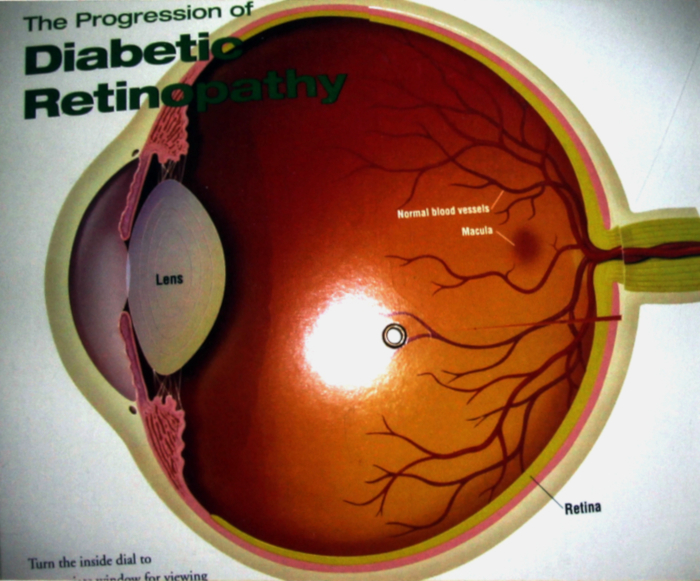
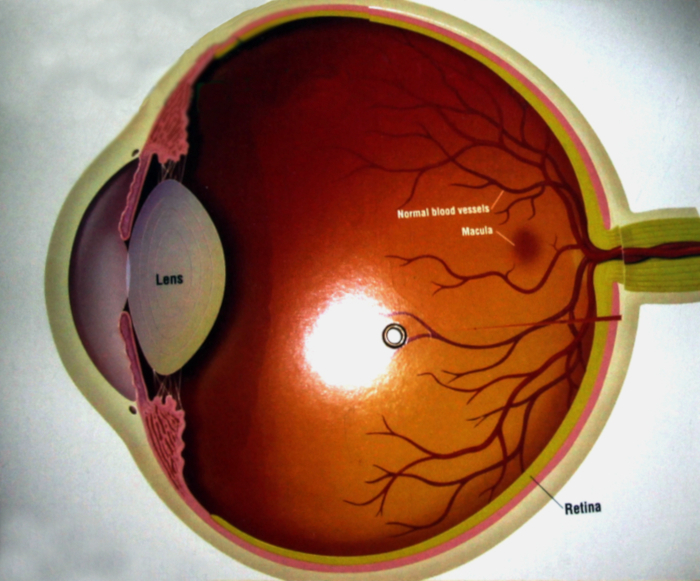
diabetes book full book formating completed

Changed region(s): [[0.0, 0.0, 0.51, 0.2169], [0.0, 0.8675, 0.3, 1.0]]

diff --git a/TeX/040/src/000g-preface.tex b/TeX/040/src/000g-preface.tex
@@ -13,13 +13,13 @@ Diabetes is a consequence of our own making. We have deviated from the lifestyle
 
 Diabetes is a disease that spares no organ in the body. Diabetics are three times more likely to have high blood pressure, 4 times more likely to die from a heart attack, and 4 times more likely to have a stroke. Diabetes is particularly hard on the Indian kidneys causing\break kidney failure at a 10–40 times higher rate than Caucasians. On a more sensitive note, diabetic men are 3 times more likely to develop erectile dysfunction, and they do so 10 years earlier than non-diabetics.
 
-Today, diabetes is no longer a disease of just the rich and old. Type 2 diabetes, which is usually diagnosed at the age of 40–50 years, is\break now being reported in kids as young as 9! In fact, Indian kids have an\break 11-fold higher risk of developing diabetes than Caucasian children.\break Youth account for 70\% of India's population. Our future is crippled if status quo prevails.
+Today, diabetes is no longer a disease of just the rich and old. Type 2 diabetes, which is usually diagnosed at the age of 40–50 years, is\break now being reported in kids as young as 9! In fact, Indian kids have an\break 11-fold higher risk of developing diabetes than Caucasian children.\break Youth account for 70\% of India's population. Our future is crippled if the status quo prevails.
 
 Diabetes is not a disease limited by a country's borders, and has\break followed Indians to every part of the globe. Indians are the fastest growing minority in the USA, and are the second largest ethnic group in Britain after Caucasians. They have double the rate of diabetes\break compared to Whites.
 
 Thus, whether we like it or not, diabetes is at everyone's doorstep today. Look around you, and you will see a friend, family member, neighbor or co-worker suffering from diabetes.
 
-Unfortunately, this major public crisis is not getting the attention it warrants. In our effort to fight this epidemic, we have meticulously combed through the entire scientific literature to identify research work that specifically addresses diabetes and its related problems\break affecting the Indian population. We have drawn on the 20 minus years of professional experience in treating patients with diabetes, the\break diabetes research experience gained at the All India Institute of\break Medical Sciences, New Delhi, and research conducted at the Sreehari Diabetes and Research Center, Mysuru, and the diabetes education\break acquired at the University of Newcastle, Australia, in authoring this book. The contents of this book is spread over 28 chapters, divided into 3 sections: (the fundamentals of diabetes, the 10 major complications of diabetes, and the solutions to the diabetes menace.
+Unfortunately, this major public crisis is not getting the attention it warrants. In our effort to fight this epidemic, we have meticulously combed through the entire scientific literature to identify research work that specifically addresses diabetes and its related problems\break affecting the Indian population. We have drawn on the 20 years of professional experience in treating patients with diabetes, the\break diabetes research experience gained at the All India Institute of\break Medical Sciences, New Delhi, and research conducted at the Sreehari Diabetes and Research Center, Mysuru, and the diabetes education\break acquired at the University of Newcastle, Australia, in authoring this book. The contents of this book is spread over 28 chapters, divided into 3 parts: (The fundamentals of diabetes, the 10 major complications of diabetes, and The solutions to the problems.
 
 We have highlighted simple, but very effective measures to\break counter diabetes. For example, eating a diet that contains complex\break carbohydrates (whole grains, vegetables, and fruits) instead of simple sugars (Coke, Pepsi, sweets, maida, white rice, etc) causes less stress on the pancreas. Consuming plant-based protein (dals, peas, nuts, seeds, etc) leads to less hunger, and consequently, better blood sugar\break control. Healthy fats (mono and poly unsaturated fats) in moderation are both essential and beneficial for health. On the contrary, the\break so-called "fat free" foods are likely to lead to poor diabetes control. The spices we routinely use in our kitchen (lndian spices - jeera, methi,\break sarson, kali mirch, etc) tend to lower our blood sugar and cholesterol levels. A healthy diet, combined with regular physical activity can\break reduce the risk of diabetes by 71\%. For every kilogram of excess weight that you burn, the risk of diabetes falls by 16\%. Yoga reduces blood sugar levels within hours, and leads to sustained benefit. This book is packed with many such facts and figures, which will bring diabetes prevention and control within the grasp of every reader.
 
@@ -29,3 +29,8 @@ It is our sincere hope and prayer that this book serves uncover this silently bu
 \textbf{Dr. V. Lakshminarayan \& Dr. Sooraj Tejaswi}
 \end{flushright}
 
+
+\newpage
+~\phantom{a}
+\thispagestyle{empty}
+\newpage

diff --git a/TeX/040/src/000d-foreword.tex b/TeX/040/src/000d-foreword.tex
@@ -13,9 +13,9 @@
 \textbf{Padmasri Dr. V. MOHAN,} {\small M.D., FRCP (London, Edinburgh,\\ Glasgow, Ireland), Ph.D., D.Sc., D.Sc (Hon. Causa), FNASc, FASc,\\ FNA, FACP, FACE\\\textbf{President, Research Society for Study of Diabetes in India\\ (RSSDI)\\ Chairman \& Chief of Diabetology, Dr. Mohan’s Diabetes\\ Specialities Centre,\\ Director \& Chief of Diabetes Research, Madras Diabetes\\ Research Foundation,\\ Chennai}}
 \end{figure}
 
-It gives me great pleasure to write this ‘Foreword’ for the book\break “World's Invisible Enemy Diabetes” by Dr. V. Lakshminara\-yan and his son Dr. Sooraj Tejaswi. I have known Dr. Lakshminarayan for many years and admire him for his deep knowledge of medicine in general, and diabetes, in particular. He is a good speaker, a talented writer, an excellent clinician and above all a great human being. I have always been struck by his humi\-lity, his passion for excellence and his deep sense of humility. It is therefore a great pleasure for me to write a Foreword to his book.
+It gives me great pleasure to write this ‘Foreword’ for the book\break “World's Invisible Enemy: Diabetes” by Dr. V. Lakshminara\-yan and his son Dr. Sooraj Tejaswi. I have known Dr. Lakshminarayan for many years and admire him for his deep knowledge of medicine in general, and diabetes, in particular. He is a good speaker, a talented writer, an excellent clinician and above all a great human being. I have always been struck by his humi\-lity, his passion for excellence and his deep sense of humility. It is therefore a great pleasure for me to write a Foreword to his book.
 
-Today, diabetes has become a global epidemic and India has\break the second largest number of people with diabetes in the world, 72.9 million, according to the recent ICMR–INDIAB study results published in 2011. Moreover, it has also an even larger number of people with pre–diabetes (77.4 million). Diabetes is no longer a disease of the rich, the old or urban people. The epidemic is rapidly shifting to younger ages, to rural areas and to the poor. This places a huge burden on not only the individual, family and the society but also the nation, as a whole. A century ago, there was an adage, “Know syphilis and know medicine”. Today, this could be changed to ‘Know diabetes and know medicine’ because diabetes has its ramifications all over the body and produces numerous complications. Moreover it is known as ‘a good di\-sease with bad companions’ because several co–morbidities like\break hypertension, dyslipidemia, obesity, cardiovascular disease and stroke, non-alcoholic fatty liver diseases and even some forms of cancers are associated with diabetes. Therefore the title of Dr. Lakshminarayan’s book “World's Invisible Enemy Diabetes” is appropriate. A thorough understanding of diabetes, its early detection, prevention and control can help not only individuals with diabetes, but also those with associated diseases and compli\-cations. This book covers all aspects of diabetes starting with history of diabetes, the acute and chronic complications of diabetes and various aspects of treatment of the disorder. I congra\-tulate Dr. Lakshminarayan and Dr. Tejaswi on this exce\-llent publication and wish them all the very best with its publication.
+Today, diabetes has become a global epidemic and India has\break the second largest number of people with diabetes in the world, 72.9 million, according to IDF Atlas 2017. Moreover, it has also an even larger number of people with pre–diabetes (77.4 million). Diabetes is no longer a disease of the rich, the old or urban people. The epidemic is rapidly shifting to younger ages, to rural areas and to the poor.\break This places a huge burden on not only the individual, family and the\break society but also the nation, as a whole. A century ago, there was an adage, “Know syphilis and know medicine”. Today, this could be\break changed to ‘Know diabetes and know medicine’ because diabetes has its ramifications all over the body and produces numerous complications. Moreover it is known as ‘a good di\-sease with bad companions’ because seve\-ral co–morbidities like hypertension, dyslipidemia,\break obesity, cardiovascular disease and stroke, non-alcoholic fatty liver diseases and even some forms of cancers are associated with diabetes. Therefore the title of Dr. Lakshminarayan’s book “World's Invisible\break Enemy: Diabetes” is appropriate. A thorough understanding of diabetes, its early detection, prevention and control can help not only individuals with diabetes, but also those with associated diseases and compli\-cations. This book covers all aspects of diabetes starting with history of diabetes, the acute and chronic complications of diabetes and various aspects of treatment of the disorder. I congra\-tulate Dr. Lakshminarayan and Dr. Tejaswi on this exce\-llent publication and wish them all the very best with its publication.
 
 \begin{flushright}
 \textbf{\textit{Padmasri} Dr. V. MOHAN}

diff --git a/TeX/040/src/003-chapter003.tex b/TeX/040/src/003-chapter003.tex
@@ -1,5 +1,5 @@
 
-\part{The Solutions to Diabetes}
+\part{\textbf{Part III - The Solutions to Diabetes}}
 
 \newpage
 ~\phantom{a}
@@ -1573,9 +1573,9 @@ They can be taken once daily, with or without food. They are\break associated wi
 
 There is some concern that this class of medications can increase the risk of pancreatitis\index{Pancreatitis} (inflammation of the pancreas) and pancreatic cancer. The FDA in USA is reviewing this currently.
 
-Teneligliptin was introduced in India in May 2015. It has gained popularity and is widely used in type 2 diabetes as it is cost effective and efficacious.
+\textit{Teneligliptin} was introduced in India in May 2015. It has gained popularity and is widely used in type 2 diabetes as it is cost effective and efficacious.
 
-\textbf{Brand names:} Tenepride, Tenepan, Ten DC Alogliptin etc.
+\textbf{Brand names:} Tenepride, Tenepan, Ten DC Afogliptin etc.
 
 \textbf{GLP–1 Agonists}
 
@@ -1883,7 +1883,7 @@ It is important to preserve insulin to maintain its effectiveness.\break Extreme
 \vspace{-\topsep}
 \begin{enumerate}[•]
 \itemsep=0pt
-\item Store insulin in the refrigerator. More specifically, store it in the door pockets, and not inside the refrigerator (shown in picture\break below). This protects insulin from variations in temperature when we open the refrigerator.
+\item Store insulin in the refrigerator. More specifically, store it in the door pockets, and not inside the refrigerator (shown in picture, p.~ 229). This protects insulin from variations in temperature when we open the refrigerator.
 
 \includegraphics[scale=2.3]{images/090.jpg}
 
@@ -1896,7 +1896,7 @@ It is important to preserve insulin to maintain its effectiveness.\break Extreme
 
 \noindent\textbf{Future trends with insulin}
 
-In future we may expect to see a more convenient form of insulin such as inhaled insulin, oral insulin or insulin patches we can wear. We also expect to see ultra–long acting insulins which you may not have to use daily, but instead once in a few days. In fact, the recently launched ultra–long acting insulin degludec (brand name Tresiba), manufactu\-red by Novo Nordisk, has been approved for use in Europe. Although it is claimed that it can be administered 3 times a week instead of daily injections. It needs to be given daily.
+In future we may expect to see a more convenient form of insulin such as inhaled insulin, oral insulin or insulin patches we can wear. We also expect to see ultra–long acting insulins which you may not have to use daily, but instead once in a few days. In fact, the recently launched ultra–long acting insulin degludec (brand name Tresiba), manufactu\-red by Novo Nordisk, has been approved for use in Europe. Although it is claimed that it can be administered 3 times a week instead of daily injections. It needs to be given daily, in India it is become a popular.
 
 \noindent\textbf{A final word about the role of medications in diabetes}
 
@@ -2128,7 +2128,7 @@ Drug score & 1.71 & 1.08**\\
 \end{figure}
 
 
-\noindent{\large\textbf{\textit{DHYAANA} IN DIABETES}}
+\noindent{\large\textbf{\textit{Dhyaana} In diabetes}}
 
 \begin{wrapfigure}{r}{5cm}
 \vskip -.4cm
@@ -2235,7 +2235,7 @@ Alcohol along with insulin over dosage can result in hypoglycemia. Although here
 
 {\noindent\Large\textbf{2. Tobacco and Diabetes:}}
 
-The history of smoking dates back to 5000 BC in the shamanistic rituals. Using tabacco in any form is injurious to health.
+The history of smoking dates back to 5000 BC in the shamanistic rituals. Using tobacco in any form is injurious to health.
 
 It is surprising to note that smoking is associated with the\break development of diabetes as per the numerous prospective studies. One such study is “Nurses Health study”$^{\text{\cite{chap28–key01}}}$$^,$$^{\text{\cite{chap28–key02}}}$$^,$$^{\text{\cite{chap28–key03}}}$. Another surprise is that smoking is associated with higher bad cholesterol levels and lower good cholesterol levels besides resistance to insulin action.
 

diff --git a/TeX/040/src/001-chapter001.tex b/TeX/040/src/001-chapter001.tex
@@ -1,5 +1,14 @@
 
-\part{The Fundamentals of Diabetes}
+\titleformat{\part}[display]
+  {\Huge\scshape\filright\centering}
+  {}
+  {20pt}
+  {\thispagestyle{empty}}
+\titlecontents{part}[0pt]{\addvspace{2pc}\centering\Large\bfseries}{}{}{}%
+
+%~ \addtocontents{toc}{\cftpagenumbersoff{part}}
+\part{\textbf{Part I - The Fundamentals of Diabetes}}
+
 
 \newpage
 ~\phantom{a}
@@ -1106,7 +1115,7 @@ The International Diabetes Federation (IDF) estimates one death every seven seco
 
 \noindent\textbf{Global prevalence of impaired glucose tolerance (IGT)}
 
-In addition to overt diabetes, the IDF estimates another 352.1\break million people worldwide to have a precursor stage of diabetes, called impaired glucose tolerance (IGT), a figure which is anticipated to rise to 587 million in 2045. Majority of these cases are from the developing parts of the world (72.3\%), and are below the age of 50 years (49\%)1.
+In addition to overt diabetes, the IDF estimates another 352.1\break million people worldwide to have a precursor stage of diabetes, called impaired glucose tolerance (IGT), a figure which is anticipated to rise to 587 million in 2045. Majority of these cases are from the developing parts of the world (72.3\%), and are below the age of 50 years (49\%)$^{\text{\cite{chap9–key01}}}$.
 
 \textcolor{darkorange}{\textbf{Top 5 Countries with impaired glucose tolerance (IGT)$^{\text{\cite{chap9–key01}}}$}}
 
@@ -1134,7 +1143,7 @@ In addition to overt diabetes, the IDF estimates another 352.1\break million peo
 
 This is a population that is at cross roads. At the stage of IGT, lifestyle modifications such as diet and exercise may delay or prevent the onset of diabetes and its complications. However, if nothing is done, they are likely to go on to develop diabetes.
 
-According to recent studies, about five percent of the total diabetes population represents Monogenic forms of diabetes, such as various subtypes of MODY (Maturity onset Diabetes of the Young) and other rare genetic conditions, another five percent comprises sub–forms of immune–Mediated type 1 diabetes with a pronounced, insulin deficit in the long run.$^{\text{\cite{chap9–key01}}}$
+According to recent studies, about five percent of the total diabetes population represents Monogenic forms of diabetes, such as various subtypes of MODY (Maturity onset Diabetes of the Young) and other rare genetic conditions, another five percent comprises sub–forms of immune–mediated type 1 diabetes with a pronounced, insulin deficit in the long run.$^{\text{\cite{chap9–key01}}}$
 
 Consequent to enormous therapeutic progress in the last thirty years, many people affected with type 1 diabetes today are able to live for almost a normal life span, although the disease usually starts at a young age, i.e. in children and adolescents.
 

diff --git a/TeX/040/src/002-chapter002.tex b/TeX/040/src/002-chapter002.tex
@@ -1,5 +1,5 @@
 
-\part{The Problems of Diabetes}
+\part{\textbf{Part II - The Problems of Diabetes}}
 
 \newpage
 ~\phantom{a}
@@ -739,7 +739,7 @@ The kidneys are extremely sophisticated machines that perform several vital func
 
 \begin{wrapfigure}{r}{6.2cm}
 \centering
-\textbf{\textit{Nephron}}\\
+\textbf{\textit{Structure of Nephron}}\\
 \vskip 3pt
 \includegraphics[scale=1.4]{images/046.jpg}
 \vskip-.6cm
@@ -1520,7 +1520,7 @@ A study comparing patients with diabetic foot disease in Germany and in India sh
 \begin{figure}[h]
 \centering
 \includegraphics[scale=1]{images/069.jpg}\\
-\textbf{\textit{Day 1 – Ulcer right foot}}
+\textbf{\textit{Day 1 – Ulcer (right foot)}}
 \vskip-.3cm
 \end{figure}
 
@@ -1910,7 +1910,7 @@ The human stomach is like a pouch or a bag. The wall of this pouch is made of mu
 \vskip-.4cm
 \centering
 \includegraphics[scale=1.5]{images/076.jpg}\\
-\textbf{\textit{Picture showing the roll of Vagus nerve\\ to control the movements of the stomach}}
+\textbf{\textit{Picture showing the role of Vagus nerve\\ to control the movements of the stomach}}
 \vskip-.5cm
 \end{figure}
 Just as muscles help us move our arms and legs, the stomach muscles help move food forward into the intestines. All muscles in the human body are controlled by the nervous system. The stomach muscles are under the control of a special nerve called the vagus nerve. In Latin vagus means to ‘wander’. As a matter of fact, the vagus nerve wanders through many parts of the human body, and controls actions of the heart, lungs, blood vessels, and stomach.

diff --git a/TeX/040/src/000b-copyright.tex b/TeX/040/src/000b-copyright.tex
@@ -1,8 +1,37 @@
 \thispagestyle{empty}
 
- \textbf{e–Book}\\
- 001v1.0.0\\
- Date: \\
- ISBN: \\
- Created by: Sriranga Digital Software Technologies Private Limited\\srirangadigital.com
+\noindent\textbf{\textit{World's Invisible Enemy:} DIABETES:}\\
+\textbf{By:} Dr. V. LAKSHMINARAYAN, MD, FICC and\\
+Dr. SOORAJ TEJASWI, MD, MSPH, FACG, AGAF, FASGE
+ 
+ \vfill
+ 
+ \noindent
+\textbf{Pages:} 262\\
+\textbf{Year of Publication:} \\
+ \textbf{ISBN:} \\
+\textbf{ Price in India:} \rupee 
+
+
+ \vfill
+ 
+\noindent © Dr. V. LAKSHMINARAYAN and Dr. SOORAJ TEJASWI
+ 
+  \vfill
+  
+\noindent
+\textbf{Typeset by:}\\
+Sriranga Digital Software Technologies Private Limited,\\
+Srirangapatna 571 438 Tel: (08236)-292432,\\
+www.srirangadigital.com\\
+
+ \vfill
+
+\noindent
+\textbf{Printed at:}
+
+
+
+
+
 

diff --git a/TeX/040/macros.tex b/TeX/040/macros.tex
@@ -19,6 +19,9 @@
 %~ \usepackage{hyperref}
 \usepackage{imakeidx}
 \usepackage{tocbasic}
+\usepackage{tfrupee}
+\usepackage[newparttoc]{titlesec}
+\usepackage{titletoc} %
 
 \usepackage{tocloft}
 \renewcommand\cftchapafterpnum{\vskip-5pt}
@@ -57,7 +60,7 @@ leftmargin=15mm,rightmargin=15mm,cropmarks]{zwpagelayout}
  \rhead[]{}
  \cfoot[]{}
 }
-\lhead[\small\thepage]{\small\em World’s Invisible Enemy : Diabetes}
+\lhead[\small\thepage]{\small\em World’s Invisible Enemy: Diabetes}
 \rhead[\small \em\leftmark]{\small\thepage}
 \chead[]{}
 \lfoot[]{}

diff --git a/TeX/040/src/000a-title.tex b/TeX/040/src/000a-title.tex
@@ -1,7 +1,7 @@
 \thispagestyle{empty}
 
 \begin{center}
-\Huge\textbf{World’s Invisible Enemy\\ Diabetes}
+\Huge\textbf{\textit{World’s Invisible Enemy}\\ DIABETES}
 \end{center}
 
 \vskip 150pt

diff --git a/TeX/040/mainfile.tex b/TeX/040/mainfile.tex
@@ -9,8 +9,8 @@
 
 \input src/000a-title
 \newpage
-%~ \input src/000b-copyright
-%~ \newpage
+\input src/000b-copyright
+\newpage
 \input src/000c-dedication
 \newpage
 \input src/000d-foreword

diff --git a/TeX/040/src/000e-messages.tex b/TeX/040/src/000e-messages.tex
@@ -1,7 +1,5 @@
 \thispagestyle{empty}
 
-\part*{Messages}
-
 
 \begin{figure}[h]
 \centering
